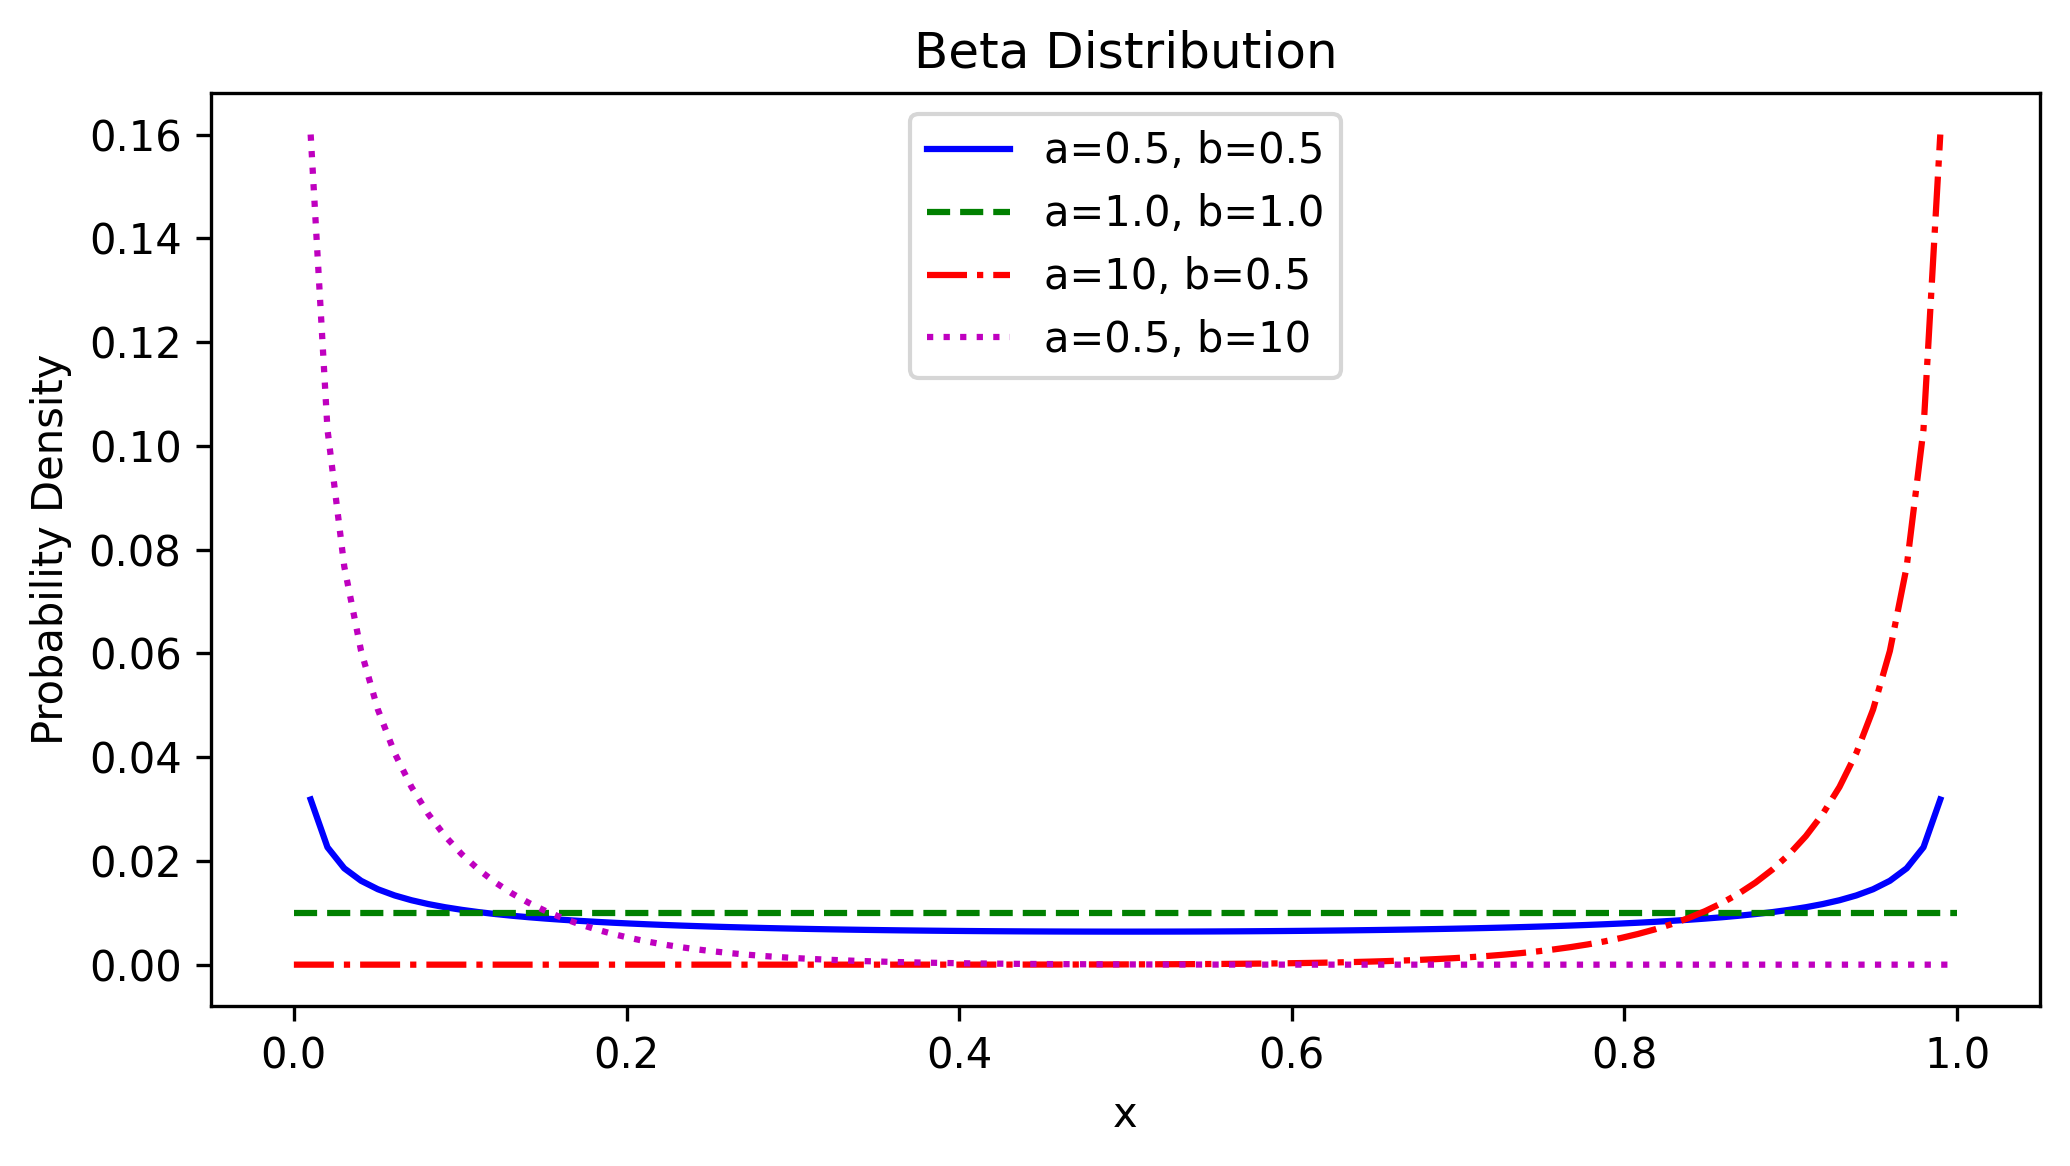
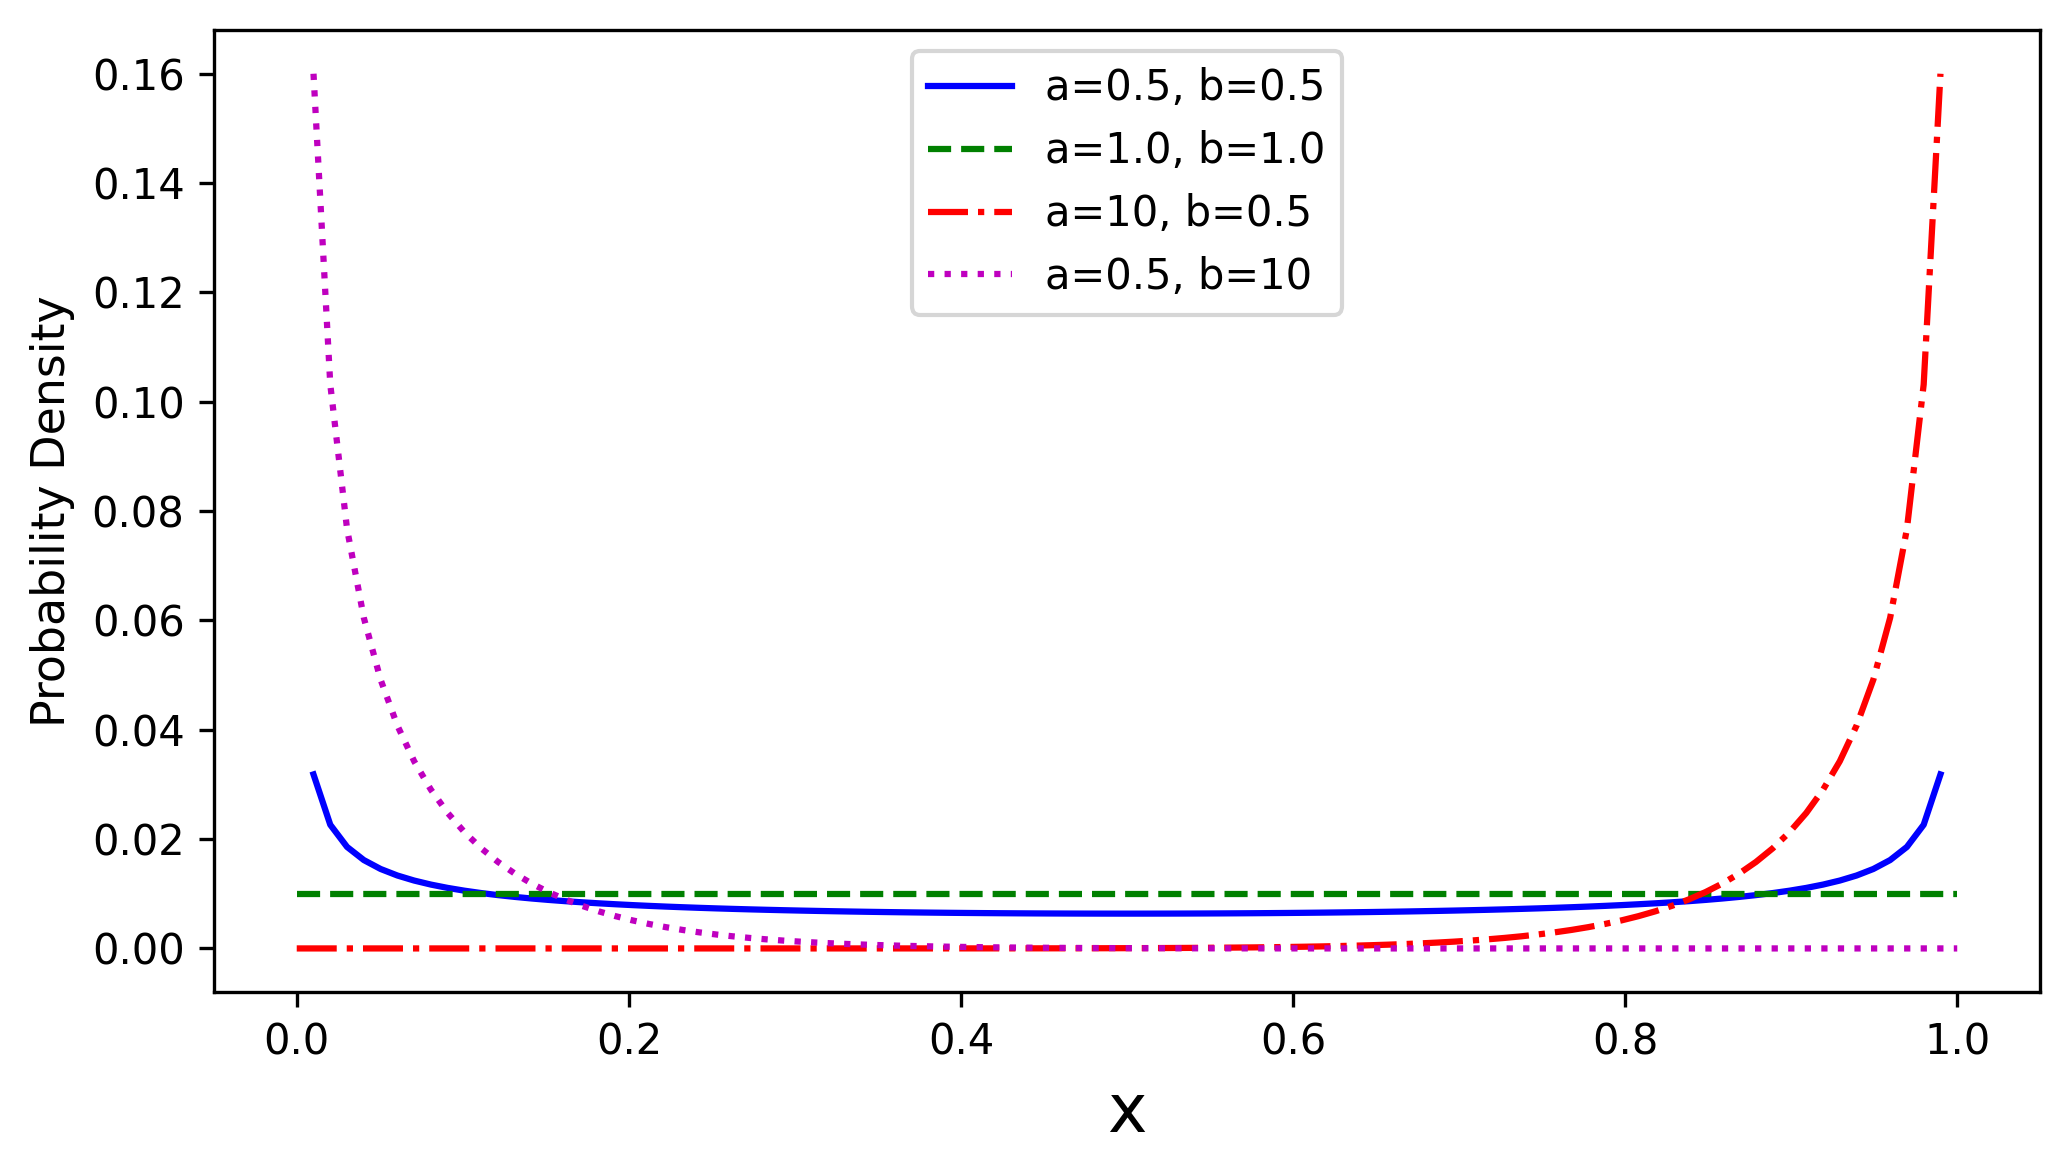
Fix beta appendix vis

diff --git a/src/visualizations_for_the_paper/max_delta_analysis_plot.py b/src/visualizations_for_the_paper/max_delta_analysis_plot.py
@@ -28,18 +28,15 @@ colors = plt.cm.viridis(np.linspace(0, 0.8, len(conf)))
 for i, c in enumerate(conf):
     ax.plot(k, maxdeltas[i], label=f'Confidence: {c}', color=colors[i])
     
-ax.set_xlabel('Number of estimators k')
-ax.set_ylabel('Max achievable delta')
+ax.set_xlabel('Number of estimators k', fontsize=16)
+ax.set_ylabel('Max achievable delta', fontsize=16)
 ax.set_yticks([0, 0.1, 0.2, 0.3, 0.4, 0.5, 0.6, 0.7, 0.8, 0.9, 0.95, 1])
 
 # plt.grid(axis='y')
 plt.grid()
-plt.title('Max achievable delta-Robustness for different alpha-confidence levels')
-plt.legend()
+plt.legend(fontsize=14)
 plt.tight_layout()
-
 plt.savefig('images/betarob/max_delta_analysis.png', dpi=300, bbox_inches='tight')
-
 plt.show()
 
 

diff --git a/src/visualizations_for_the_paper/beta_distr_vis.py b/src/visualizations_for_the_paper/beta_distr_vis.py
@@ -25,13 +25,12 @@ for a, b in beta_settings:
     y = stats.beta.pdf(x, a, b) / len(x)
     ax.plot(x, y, label=f'a={a}, b={b}', linestyle=lines.pop(0), color=colors.pop(0))
     
-ax.set_xlabel('x')
-ax.set_ylabel('Probability Density')
-ax.set_title('Beta Distribution')
+ax.set_xlabel('x', fontsize=16)
+ax.set_ylabel('Probability Density', fontsize=11)
 # plt.yticks([])
 
 # plt.grid()
-plt.legend()
+plt.legend(fontsize=10)
 plt.tight_layout()
 
 plt.savefig('images/betarob/beta_distr.png', dpi=300, bbox_inches='tight')
